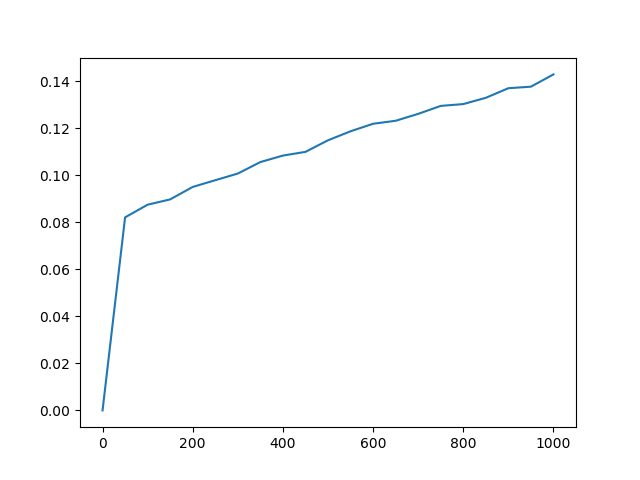
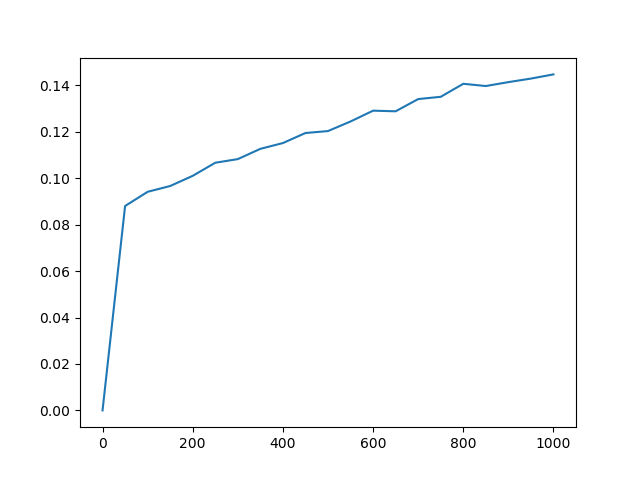
task2, ?shape

diff --git a/02_pascal_alexnet.py b/02_pascal_alexnet.py
@@ -12,7 +12,6 @@ from PIL import Image
 from functools import partial
 import cv2
 import matplotlib.pyplot as plt
-import sklearn.metrics
 
 from eval import compute_map
 # import models
@@ -48,35 +47,100 @@ def cnn_model_fn(features, labels, mode, num_classes=20):
     # Input Layer
     input_layer = tf.reshape(features["x"], [-1, 256, 256, 3])
 
-    # Convolutional Layer #1
+    # conv(k, s, n, p)
+    # conv(11, 4, 96, 'VALID')
+    # relu()
     conv1 = tf.layers.conv2d(
         inputs=input_layer,
-        filters=32,
-        kernel_size=[5, 5],
-        padding="same",
+        kernel_size=[11, 11],
+        strides=4,
+        filters=96,
+        padding="valid",
+        kernel_initializer=tf.truncated_normal_initializer(0,0.001),
+        bias_initializer=tf.zeros_initializer(),
         activation=tf.nn.relu)
 
-    # Pooling Layer #1
-    pool1 = tf.layers.max_pooling2d(inputs=conv1, pool_size=[2, 2], strides=2)
+    # max_pool(3, 2)
+    pool1 = tf.layers.max_pooling2d(inputs=conv1, pool_size=[3, 3], strides=2)
 
-    # Convolutional Layer #2 and Pooling Layer #2
+    # conv(5, 1, 256, 'SAME')
+    # relu()
     conv2 = tf.layers.conv2d(
         inputs=pool1,
-        filters=64,
         kernel_size=[5, 5],
+        strides=1,
+        filters=256,
         padding="same",
+        kernel_initializer=tf.truncated_normal_initializer(0,0.001),
+        bias_initializer=tf.zeros_initializer(),
         activation=tf.nn.relu)
-    pool2 = tf.layers.max_pooling2d(inputs=conv2, pool_size=[2, 2], strides=2)
 
-    # Dense Layer
-    pool2_flat = tf.reshape(pool2, [-1, 64 * 64 * 64])
-    dense = tf.layers.dense(inputs=pool2_flat, units=1024,
+    # max_pool(3, 2)
+    pool2 = tf.layers.max_pooling2d(inputs=conv2, pool_size=[3, 3], strides=2)
+
+    # conv(3, 1, 384, 'SAME')
+    # relu()
+    conv3 = tf.layers.conv2d(
+        inputs=pool2,
+        kernel_size=[3, 3],
+        strides=1,
+        filters=384,
+        padding="same",
+        kernel_initializer=tf.truncated_normal_initializer(0,0.001),
+        bias_initializer=tf.zeros_initializer(),
+        activation=tf.nn.relu)
+
+    # conv(3, 1, 384, 'SAME')
+    # relu()
+    conv4 = tf.layers.conv2d(
+        inputs=conv3,
+        kernel_size=[3, 3],
+        strides=1,
+        filters=384,
+        padding="same",
+        kernel_initializer=tf.truncated_normal_initializer(0,0.001),
+        bias_initializer=tf.zeros_initializer(),
+        activation=tf.nn.relu)
+
+    # conv(3, 1, 256, 'SAME')
+    # relu()
+    conv5 = tf.layers.conv2d(
+        inputs=conv4,
+        kernel_size=[3, 3],
+        strides=1,
+        filters=256,
+        padding="same",
+        kernel_initializer=tf.truncated_normal_initializer(0,0.001),
+        bias_initializer=tf.zeros_initializer(),
+        activation=tf.nn.relu)
+
+    # max_pool(3, 2)
+    pool3 = tf.layers.max_pooling2d(inputs=conv5, pool_size=[3, 3], strides=2)
+
+    # flatten()
+    pool3_flat = tf.reshape(pool3, [int((labels.shape)[0]), -1])
+
+    # fully_connected(4096)
+    # relu()
+    dense1 = tf.layers.dense(inputs=pool3_flat, units=4096,
                             activation=tf.nn.relu)
-    dropout = tf.layers.dropout(
-        inputs=dense, rate=0.4, training=mode == tf.estimator.ModeKeys.TRAIN)
 
+    # dropout(0.5)
+    dropout1 = tf.layers.dropout(
+        inputs=dense1, rate=0.5, training=mode == tf.estimator.ModeKeys.TRAIN)
+
+    # fully_connected(4096)
+    # relu()
+    dense2 = tf.layers.dense(inputs=dropout1, units=4096,
+                            activation=tf.nn.relu)
+
+    # dropout(0.5)
+    dropout2 = tf.layers.dropout(
+        inputs=dense2, rate=0.5, training=mode == tf.estimator.ModeKeys.TRAIN)
+
+    # fully_connected(20)
     # Logits Layer
-    logits = tf.layers.dense(inputs=dropout, units=20)
+    logits = tf.layers.dense(inputs=dropout2, units=20)
 
     predictions = {
         # Generate predictions (for PREDICT and EVAL mode)
@@ -98,10 +162,14 @@ def cnn_model_fn(features, labels, mode, num_classes=20):
     tf.summary.scalar('training_loss', loss)
     # Configure the Training Op (for TRAIN mode)
     if mode == tf.estimator.ModeKeys.TRAIN:
-        optimizer = tf.train.GradientDescentOptimizer(learning_rate=0.001)
+        global_step = tf.train.get_global_step()
+        decay_LR = tf.train.exponential_decay(0.01, global_step,
+                                              10000, 0.5, staircase=True)
+        optimizer = tf.train.MomentumOptimizer(learning_rate=decay_LR,
+                                               momentum = 0.9)
         train_op = optimizer.minimize(
             loss=loss,
-            global_step=tf.train.get_global_step())
+            global_step=global_step)
         return tf.estimator.EstimatorSpec(
             mode=mode, loss=loss, train_op=train_op)
 
@@ -109,7 +177,6 @@ def cnn_model_fn(features, labels, mode, num_classes=20):
     eval_metric_ops = {
         "accuracy": tf.metrics.accuracy(
             labels=labels, predictions=predictions["classes"])}
-
     return tf.estimator.EstimatorSpec(
         mode=mode, loss=loss, eval_metric_ops=eval_metric_ops)
 
@@ -140,7 +207,7 @@ def load_pascal(data_dir, split='train'):
         f_list = f.readlines()
     f_list = [x.strip('\n') for x in f_list]
     N = len(f_list)
-
+    N = 300
     # read images
     images = np.zeros([N,H,W,3],np.float32)
     for i in range(N):
@@ -190,8 +257,8 @@ def _get_el(arr, i):
 
 
 def main():
-    BATCH_SIZE = 100
-    PASCAL_MODEL_DIR = "/tmp/pascal_model_scratch"
+    BATCH_SIZE = 10
+    PASCAL_MODEL_DIR = "/tmp/alexnet_model_scratch"
 
     args = parse_args()
     # Load training and eval data
@@ -219,18 +286,10 @@ def main():
     sess = tf.Session(config=tf.ConfigProto(log_device_placement=True))
 
     # draw
-    # logs_path = '/tmp/pascal_model_scratch/summary/'
-    # writer = tf.train.SummaryWriter(logs_path, graph=tf.get_default_graph())
-
-    total_iters = 1000
-    iter = 20
+    total_iters = 40000
+    iter = 200
     NUM_ITERS = int(total_iters/iter)
-    # mAP = tf.Variable(0.0, dtype=tf.float32)
-
-    # merged = tf.summary.merge_all()
     mAP_writer = tf.summary.FileWriter(PASCAL_MODEL_DIR+'/train',sess.graph)
-    # sess.run(tf.global_variables_initializer())
-
     x = np.multiply(range(iter+1),50.0)
     acc_arr = np.multiply(range(iter+1),0.0)
     for i in range(iter):
@@ -260,27 +319,21 @@ def main():
             print('{}: {}'.format(cname, _get_el(AP, cid)))
 
         # draw graph
+        summary = tf.Summary(value=[tf.Summary.Value(tag='mean_AP',
+                                                     simple_value=np.mean(AP))])
+        mAP_writer.add_summary(summary, i)
+
         acc_arr[i+1] = np.mean(AP)
 
         print("accuracy is: ")
         print(np.mean(AP))
 
-
-        # meanAP = tf.assign(mAP, np.mean(AP).astype(np.float32))
-        # tf.summary.tensor_summary('mean_AP', mAP)
-        # merged = tf.summary.merge_all()
-        # summary = sess.run(merged)
-        summary = tf.Summary(value=[tf.Summary.Value(tag='mean_AP',
-                                                     simple_value=np.mean(AP))])
-        mAP_writer.add_summary(summary, i)
-
-        # writer
         plt.clf()
         fig = plt.figure(1)
         plt.plot(x, acc_arr)
         plt.pause(0.0001)
         fig.savefig("acc_task1_2.png")
 
-    mAP_writer.close()
+
 if __name__ == "__main__":
     main()
